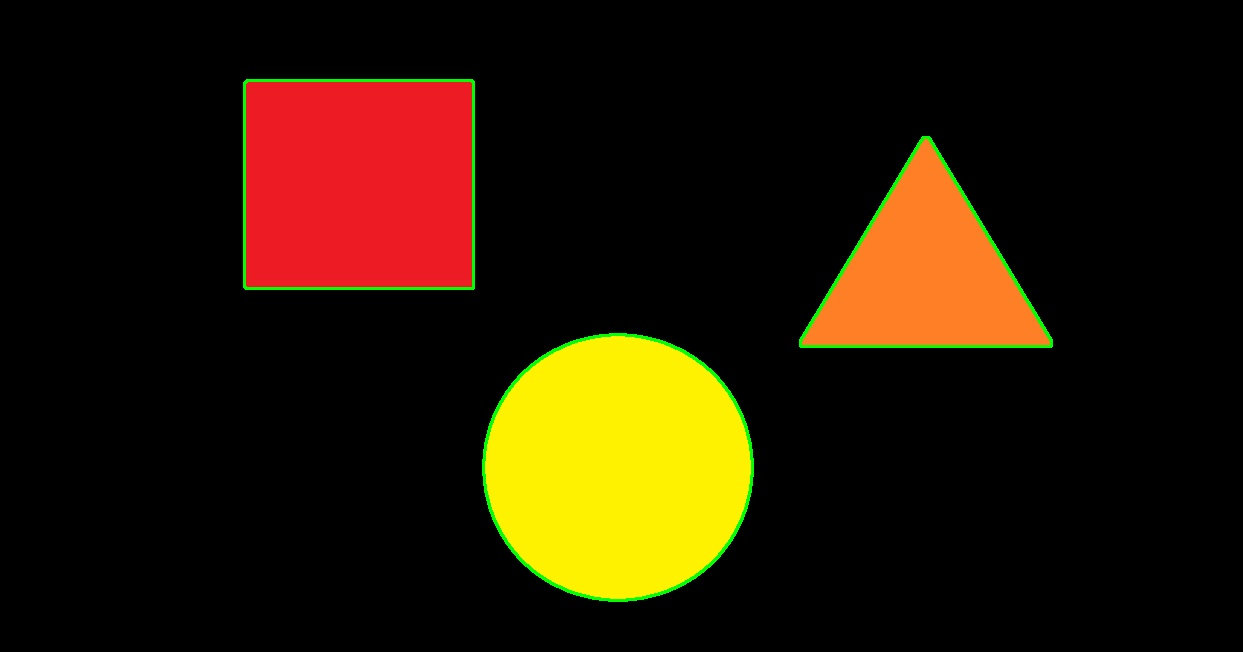
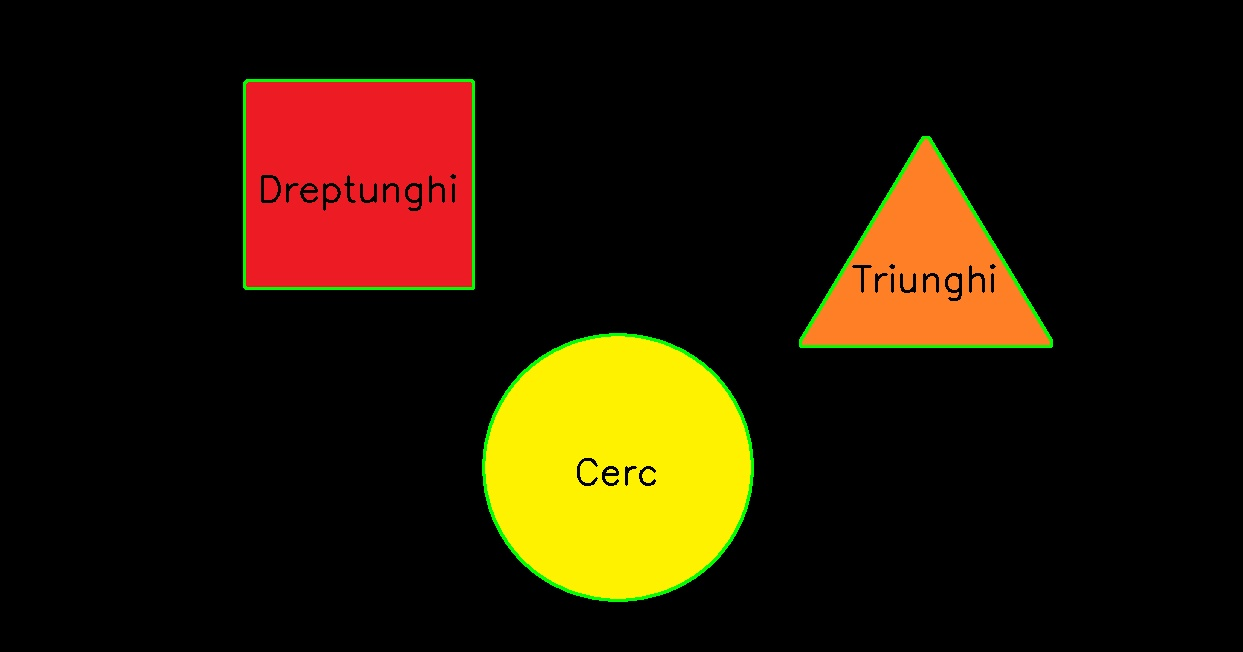
Updated printing, added text label feature

Changed region(s): [[0.1834, 0.2761, 0.3669, 0.3374], [0.6726, 0.3988, 0.7949, 0.4601], [0.4586, 0.7055, 0.5197, 0.7669]]

diff --git a/templates/index.html b/templates/index.html
@@ -29,12 +29,20 @@
         if (data.error) {
           document.getElementById("results").innerHTML = data.error;
         } else {
-          document.getElementById("results").innerHTML = `
-                    <p>Triunghiuri: ${data.shapes.triangle}</p>
-                    <p>Pătrate: ${data.shapes.square}</p>
-                    <p>Cercuri: ${data.shapes.circle}</p>
-                    <img src="${data.processed_image}" width="400">
-                `;
+          const container = document.getElementById("results");
+          container.innerHTML = "";
+
+          data.shapes.forEach((shape) => {
+            const p = document.createElement("p");
+            p.textContent = `${shape.name}: ${shape.count}`;
+            if (shape.count > 0) {
+              container.appendChild(p);
+            }
+          });
+          const img = document.createElement("img");
+          img.src = data.processed_image;
+          img.width = 400;
+          container.appendChild(img);
         }
       });
     </script>

diff --git a/templates/index-openai.html b/templates/index-openai.html
@@ -30,7 +30,7 @@
           document.getElementById("results").innerHTML = data.error;
         } else {
           document.getElementById("results").innerHTML = `
-                    <p>Triunghiuri: ${data.shapes.triangle}</p>
+                    <p>Triunghiuri: ${data.shapes[0].count}</p>
                     <p>Pătrate: ${data.shapes.square}</p>
                     <p>Cercuri: ${data.shapes.circle}</p>
                     ${

diff --git a/app-fallback-openAI.py b/app-fallback-openAI.py
@@ -40,20 +40,55 @@ def upload():
     img = cv2.imdecode(np.frombuffer(file.read(), np.uint8), cv2.IMREAD_COLOR)
     gray = cv2.cvtColor(img, cv2.COLOR_BGR2GRAY)
     blur = cv2.GaussianBlur(gray, (3,3), 0)
-    edges = cv2.Canny(blur, 30, 100)  # lower thresholds to catch faint edges
+    edges = cv2.Canny(blur, 30, 100)
     edges = cv2.dilate(edges, None, iterations=1)
     contours, _ = cv2.findContours(edges, cv2.RETR_EXTERNAL, cv2.CHAIN_APPROX_SIMPLE)
-    shapes = {"triangle": 0, "square": 0, "circle": 0}
-    dbg = 0
+    shapes = [
+        {"name":"Triunghiuri","count": 0},
+        {"name":"Pătrate","count": 0},
+        {"name":"Dreptunghiuri","count": 0},
+        {"name":"Pentagoane","count": 0},
+        {"name":"Cercuri","count": 0}
+    ]
+    def increment(name):
+        for shape in shapes:
+            if shape["name"] == name:
+                shape["count"] += 1
+                break
     for cnt in contours:
-        dbg += 1
+        label = ""
         approx = cv2.approxPolyDP(cnt,  0.04 * cv2.arcLength(cnt, True), True)
         if len(approx) == 3:
-            shapes["triangle"] += 1
+            increment("Triunghiuri")
+            label = "Triunghi"
         elif len(approx) == 4:
-            shapes["square"] += 1
+            _,_,w,h = cv2.boundingRect(approx)
+            aspectRatio = w / float(h)
+            if 0.9 < aspectRatio < 1.1:
+                increment("Pătrate")
+                label = "Patrat"
+            else:
+                increment("Dreptunghiuri")
+                label = "Dreptunghi"
+        elif len(approx) == 5:
+            increment("Pentagoane")
+            label = "Pentagon"
         else:
-            shapes["circle"] += 1
+            increment("Cercuri")
+            label = "Cerc"
+        m = cv2.moments(cnt)
+        cx = int(m["m10"]/m["m00"])
+        cy = int(m["m01"]/m["m00"])
+        brightness = gray[cy,cx]
+        print("brightness is", brightness)
+        if brightness > 50:
+           text_color = (0,0,0)
+        else:
+           text_color = (255,255,255)
+        (text_width, text_height),_ = cv2.getTextSize(label, cv2.FONT_HERSHEY_SIMPLEX, 1.2, 2)
+        x = cx - text_width // 2
+        y = cy - text_height // 2
+        cv2.putText(img, label, (x, y+30), cv2.FONT_HERSHEY_SIMPLEX, 1.2, text_color, 2)
         # Desenează contururile
         cv2.drawContours(img, [cnt], 0, (0, 255, 0), 2)
     # Salvează imaginea procesată în static/uploads
